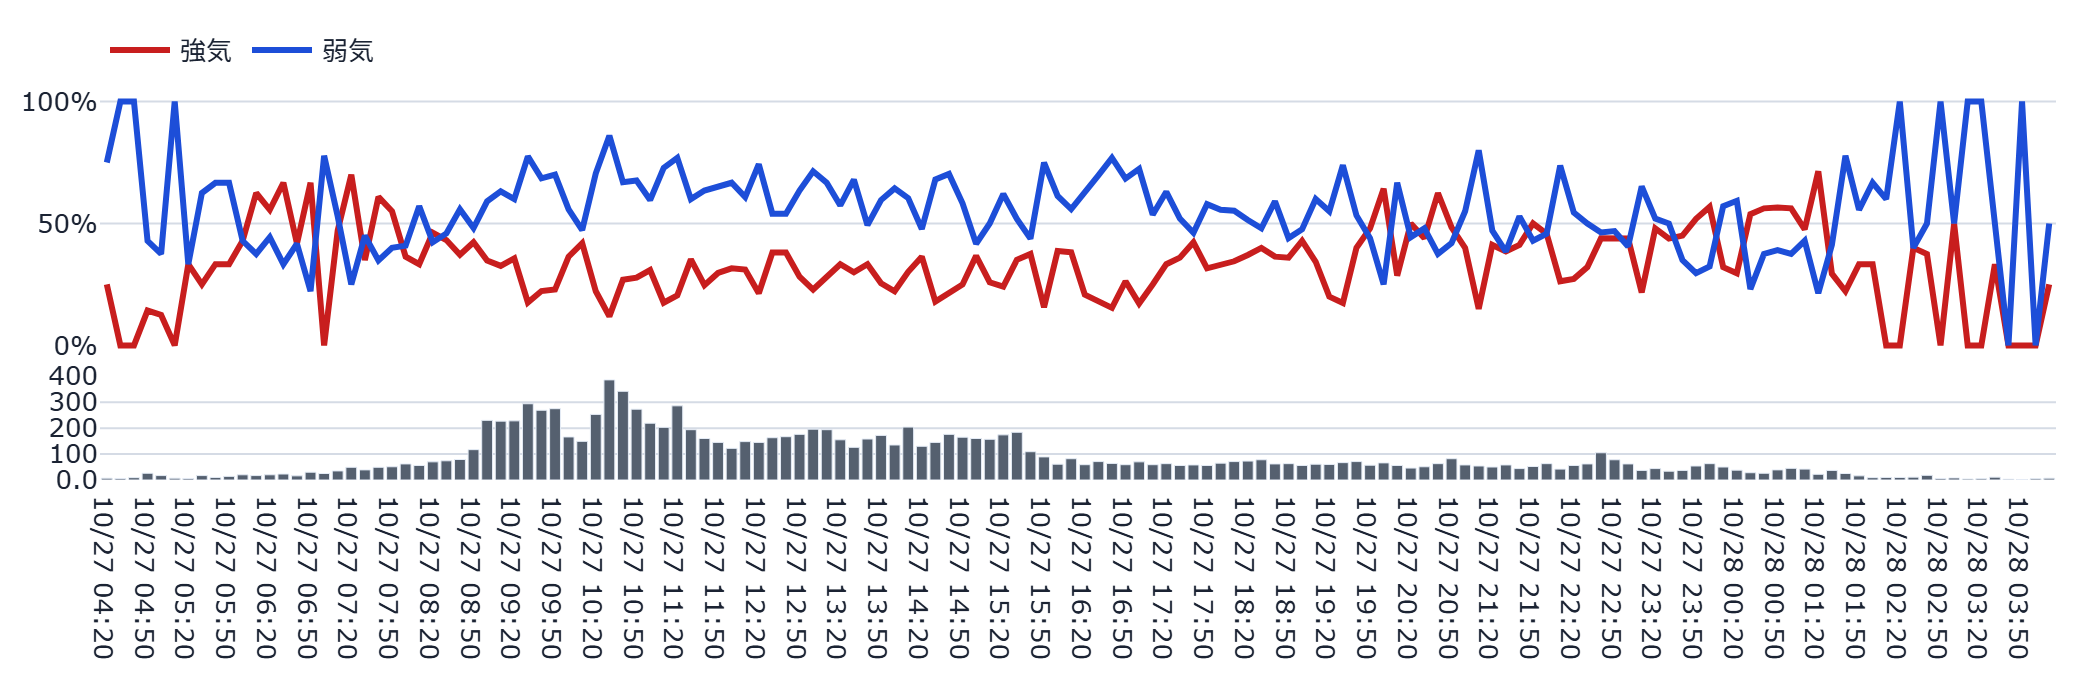
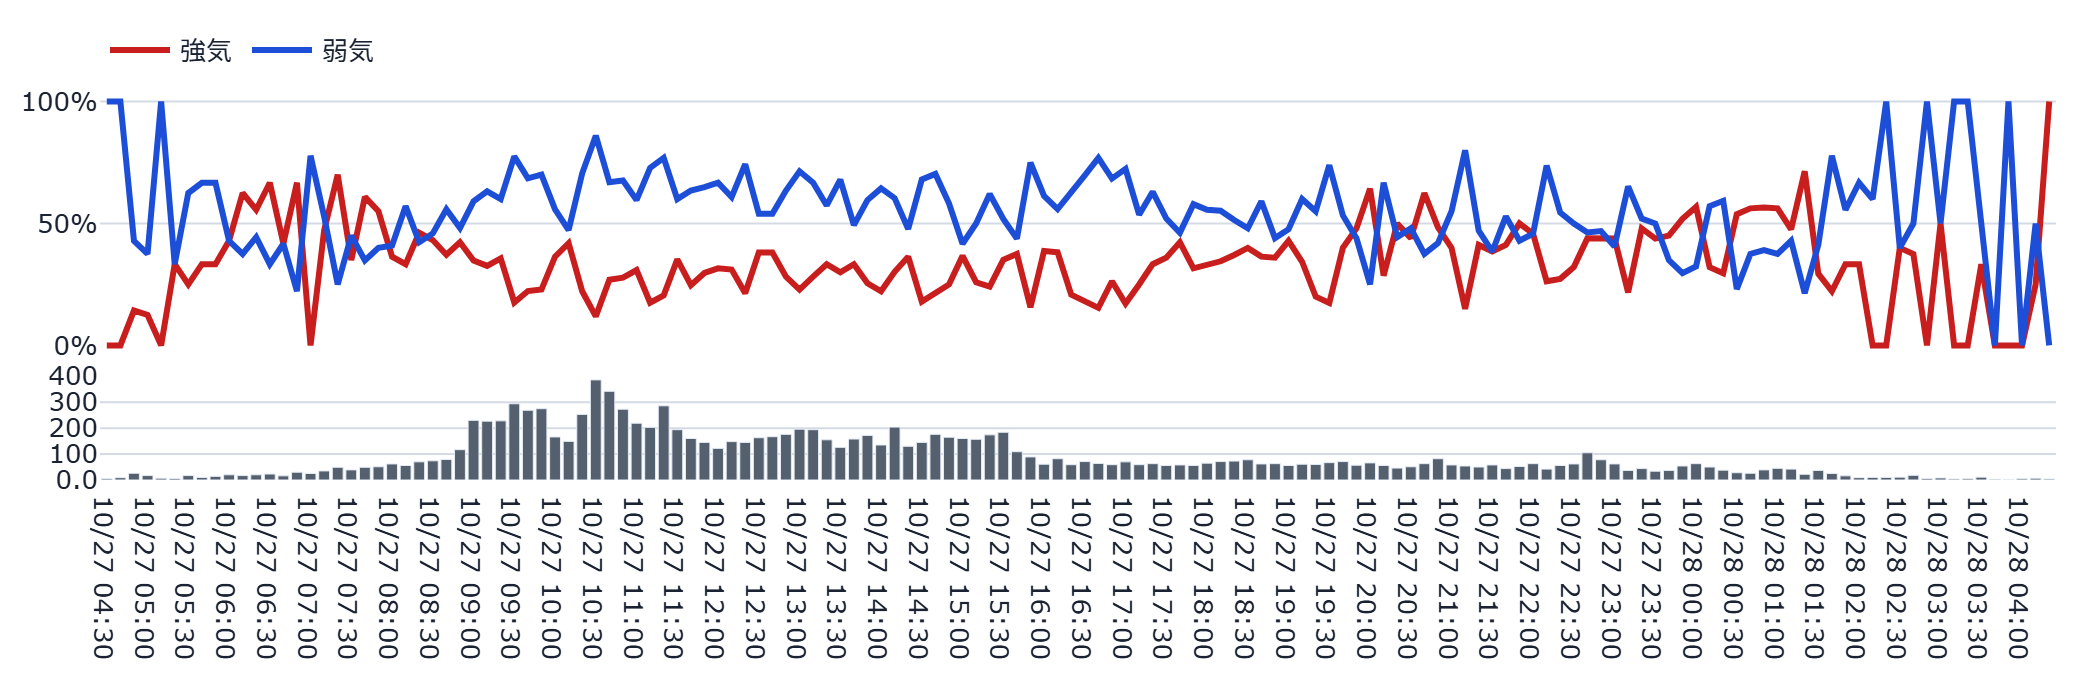
auto: refresh static dashboard (2026-10-28 04:34:55 JST)

diff --git a/docs/index.html b/docs/index.html
@@ -144,10 +144,10 @@
         <span class="price">12,605円</span>
         <span class="chg" style="color:#8B94A3">—</span>
       </div>
-      <p class="caption">更新時刻: 2026-10-28T04:21:01（データは1分間隔で自動生成され、このページも
+      <p class="caption">更新時刻: 2026-10-28T04:31:03（データは1分間隔で自動生成され、このページも
       60秒毎に自動再読み込みされます）</p>
       
-      <p id='visit-count-badge' class='caption'>👀 累計閲覧数: 11,232</p>
+      <p id='visit-count-badge' class='caption'>👀 累計閲覧数: 11,234</p>
       <p id='like-button-wrap' class='caption'><button id='like-button' type='button' style='cursor:pointer;border:1px solid var(--border);border-radius:6px;padding:1px 10px;margin-right:6px;background:var(--panel);color:var(--text);font-size:1em;vertical-align:middle'>👍</button><span id='like-count-label'>このダッシュボードが役に立ったら押してください（累計 4 いいね）</span></p>
 
       <!-- ★2026-09-08追加(ユーザー指示「AI考察はトップに移動」): モニタ
@@ -155,9 +155,9 @@
            常時最上部に表示する。 -->
       <h2>🤖 AI考察</h2>
       <div class='panel' id='ai-schedule'><h3>🗓 AI考察の予定</h3><ul><li>平日の立会日に、寄り前 08:50／寄り直後 09:10／前場引け前 11:30／大引け後 15:45 の4時点で考察を更新します（考察はClaude(AI)が書きます）。</li><li>土日祝などの休場日は考察を書きません。</li><li>時点の間は、数値のみを約10分ごとに更新します（文章は次の時点まで更新されません）。</li><li>次の予定: 10-28 08:50（寄り前）／直近の更新: 10-20 15:33（自動生成）</li></ul></div>
-      <div class='panel' id='numeric-summary'><h3>📊 数値要約｜04:21 更新</h3><ul><li>株価: 12,605円</li><li>掲示板: 強気 43.6%／弱気 44.7%／中立 11.7%・投稿 540件（約108件/時）</li><li>シグナル: 発火＝ネームド集中(0.16)・話題枯れ(-1.6)／警戒＝灼熱メーター(過熱)(30.3)・イナゴ語彙(euphoria)(4.8)／平常＝そう思う大量票(20)・他銘柄混入率(0.07)・暴落煽り語彙(2.2)・阿鼻叫喚(セリクラ)(0)ほか</li><li>変化点: 前回の数値要約から大きな変化なし</li></ul><p class='caption'>強気・弱気は機械判定（辞書＋軽量モデル）の値です。日単位の向きはLM判定と近く（相関0.8台）、時間単位は粗い点に注意してください。</p></div>
+      <div class='panel' id='numeric-summary'><h3>📊 数値要約｜04:31 更新</h3><ul><li>株価: 12,605円</li><li>掲示板: 強気 44.0%／弱気 44.4%／中立 11.6%・投稿 544件（約109件/時）</li><li>シグナル: 発火＝ネームド集中(0.16)・話題枯れ(-1.6)／警戒＝灼熱メーター(過熱)(30.3)・イナゴ語彙(euphoria)(4.8)／平常＝そう思う大量票(20)・他銘柄混入率(0.07)・暴落煽り語彙(2.2)・阿鼻叫喚(セリクラ)(0)ほか</li><li>変化点: 前回の数値要約から大きな変化なし</li></ul><p class='caption'>強気・弱気は機械判定（辞書＋軽量モデル）の値です。日単位の向きはLM判定と近く（相関0.8台）、時間単位は粗い点に注意してください。</p></div>
       
-      <div class='metric-row'><div class='metric-card'><div class='metric-label'>株価</div><div class='metric-value'>12,605円</div><div class='metric-delta'>+0円</div></div><div class='metric-card'><div class='metric-label'>強気比率</div><div class='metric-value'>43.6%</div><div class='metric-delta'>-0.3pt</div></div><div class='metric-card'><div class='metric-label'>弱気比率</div><div class='metric-value'>44.7%</div><div class='metric-delta'>+0.1pt</div></div></div><p class='caption'>前回集計(2026-10-28T04:10:59)との比較</p>
+      <div class='metric-row'><div class='metric-card'><div class='metric-label'>株価</div><div class='metric-value'>12,605円</div><div class='metric-delta'>+0円</div></div><div class='metric-card'><div class='metric-label'>強気比率</div><div class='metric-value'>44.0%</div><div class='metric-delta'>+0.4pt</div></div><div class='metric-card'><div class='metric-label'>弱気比率</div><div class='metric-value'>44.4%</div><div class='metric-delta'>-0.3pt</div></div></div><p class='caption'>前回集計(2026-10-28T04:21:01)との比較</p>
       <div class='ai-box'>※無料公開データを機械的に集計した観測情報であり、投資助言・売買推奨ではありません。（10-20 大引け後・本日の取引終了後の整理です）<br>
 <br>
 ■ 本日の終値：15:30の板寄せで13,140円、前営業日終値比で約-3.4%<br>
@@ -205,7 +205,7 @@
             <h3>ボラ・レジーム帯</h3>
             <figure><img src='images/regime_band.png' alt='ボラ・レジーム帯' loading='lazy'></figure>
             <p class='caption'>現在レジーム: 較正中　(BVP=0.38)</p>
-            <div class='metric-row'><div class='metric-card'><div class='metric-label'>PTS（10/28 00:55）</div><div class='metric-value'>13,140円</div><div class='metric-delta' style='color:#C81E1E'>+4.24%</div></div><div class='metric-card'><div class='metric-label'>米国ADR（10/28 04:24）</div><div class='metric-value'>13,105円</div><div class='metric-delta' style='color:#C81E1E'>+3.97%</div></div><div class='metric-card'><div class='metric-label'>DEX（10/28 04:20）</div><div class='metric-value'>13,240円</div><div class='metric-delta' style='color:#C81E1E'>+5.04%</div></div></div><p class='caption'>PTS=東証取引時間外の私設取引システム／ADR=米国預託証券／DEX=分散型取引所(Hyperliquid)の24時間取引・円換算(東証終値比)。翌営業日の値動きの参考情報です(それ自体が売買シグナルではありません)。</p>
+            <div class='metric-row'><div class='metric-card'><div class='metric-label'>PTS（10/28 00:55）</div><div class='metric-value'>13,140円</div><div class='metric-delta' style='color:#C81E1E'>+4.24%</div></div><div class='metric-card'><div class='metric-label'>米国ADR（10/28 04:34）</div><div class='metric-value'>13,106円</div><div class='metric-delta' style='color:#C81E1E'>+3.97%</div></div><div class='metric-card'><div class='metric-label'>DEX（10/28 04:30）</div><div class='metric-value'>13,230円</div><div class='metric-delta' style='color:#C81E1E'>+4.96%</div></div></div><p class='caption'>PTS=東証取引時間外の私設取引システム／ADR=米国預託証券／DEX=分散型取引所(Hyperliquid)の24時間取引・円換算(東証終値比)。翌営業日の値動きの参考情報です(それ自体が売買シグナルではありません)。</p>
           </div>
         </div>
 
@@ -230,7 +230,7 @@
 <div class='signal-row'><div class='signal-name'>そう思う大量票<div class='signal-desc'>Yahoo!掲示板の「そう思う」共感ボタンが1投稿に集中して大量に押されているか。</div></div><div class='signal-meta'><div class='signal-note'>そう思う最大20票 (95超=過熱)</div><div><span style='display:inline-block;border-radius:999px;padding:2px 10px;font-size:.82em;font-weight:600;color:#fff;background:#15803D;white-space:nowrap'>OK (現在値20 / 閾値&gt;=95)</span></div><div class='signal-spark'><figure><img src='images/spark_signal_1.png' alt='そう思う大量票の推移' loading='lazy'></figure></div></div></div>
 <div class='signal-row'><div class='signal-name'>イナゴ語彙(euphoria)<div class='signal-desc'>「爆上げ」「握力」等、熱狂・便乗を示す語彙が投稿にどれだけ含まれるか。</div></div><div class='signal-meta'><div class='signal-note'>euphoria指数4.8/100投稿</div><div><span style='display:inline-block;border-radius:999px;padding:2px 10px;font-size:.82em;font-weight:600;color:#fff;background:#C2570B;white-space:nowrap'>警戒 (現在値4.80 / 閾値&gt;=5.5(発火)/&gt;=4.0(警戒)/100投稿)</span></div><div class='signal-spark'><figure><img src='images/spark_signal_2.png' alt='イナゴ語彙(euphoria)の推移' loading='lazy'></figure></div></div></div>
 <div class='signal-row'><div class='signal-name'>ネームド集中<div class='signal-desc'>特定の常連投稿者(ハッシュ化ID)に投稿が偏っていないか(少数の声が目立ちすぎていないか)。</div></div><div class='signal-meta'><div class='signal-note'>上位5人シェア16%</div><div><span style='display:inline-block;border-radius:999px;padding:2px 10px;font-size:.82em;font-weight:600;color:#fff;background:#C81E1E;white-space:nowrap'>発火 (現在値0.16 / 閾値&gt;=0.1)</span></div><div class='signal-spark'><figure><img src='images/spark_signal_3.png' alt='ネームド集中の推移' loading='lazy'></figure></div></div></div>
-<div class='signal-row'><div class='signal-name'>他銘柄混入率<div class='signal-desc'>本銘柄の掲示板で他の銘柄コードへの言及がどれだけ多いか(関心が他へ移りつつあるサイン)。</div></div><div class='signal-meta'><div class='signal-note'>他銘柄言及7% (関心離散のサイン)</div><div><span style='display:inline-block;border-radius:999px;padding:2px 10px;font-size:.82em;font-weight:600;color:#fff;background:#15803D;white-space:nowrap'>OK (現在値0.07 / 閾値&gt;=0.11)</span></div><div class='signal-spark'><figure><img src='images/spark_signal_4.png' alt='他銘柄混入率の推移' loading='lazy'></figure></div></div></div>
+<div class='signal-row'><div class='signal-name'>他銘柄混入率<div class='signal-desc'>本銘柄の掲示板で他の銘柄コードへの言及がどれだけ多いか(関心が他へ移りつつあるサイン)。</div></div><div class='signal-meta'><div class='signal-note'>他銘柄言及8% (関心離散のサイン)</div><div><span style='display:inline-block;border-radius:999px;padding:2px 10px;font-size:.82em;font-weight:600;color:#fff;background:#15803D;white-space:nowrap'>OK (現在値0.07 / 閾値&gt;=0.11)</span></div><div class='signal-spark'><figure><img src='images/spark_signal_4.png' alt='他銘柄混入率の推移' loading='lazy'></figure></div></div></div>
 <div class='signal-row'><div class='signal-name'>暴落煽り語彙<div class='signal-desc'>「暴落」「終わった」等、悲観・煽りを示す語彙が投稿にどれだけ含まれるか。</div></div><div class='signal-meta'><div class='signal-note'>煽り指数2.2/100投稿</div><div><span style='display:inline-block;border-radius:999px;padding:2px 10px;font-size:.82em;font-weight:600;color:#fff;background:#15803D;white-space:nowrap'>OK (現在値2.20 / 閾値&gt;=5.0/100投稿)</span></div><div class='signal-spark'><figure><img src='images/spark_signal_5.png' alt='暴落煽り語彙の推移' loading='lazy'></figure></div></div></div>
 <div class='signal-row'><div class='signal-name'>阿鼻叫喚(セリクラ)<div class='signal-desc'>株価が安値圏にある中で悲観語彙が急増しているか(セリングクライマックスの兆候)。</div></div><div class='signal-meta'><div class='signal-note'>阿鼻叫喚スコア0.0 安値圏外</div><div><span style='display:inline-block;border-radius:999px;padding:2px 10px;font-size:.82em;font-weight:600;color:#fff;background:#15803D;white-space:nowrap'>OK (現在値0.00 / 閾値&gt;30)</span></div><div class='signal-spark'><figure><img src='images/spark_signal_6.png' alt='阿鼻叫喚(セリクラ)の推移' loading='lazy'></figure></div></div></div>
 <div class='signal-row'><div class='signal-name'>話題枯れ<div class='signal-desc'>過去の平均と比べて本日の投稿数が著しく少ないか(閑散・関心低下のサイン)。</div></div><div class='signal-meta'><div class='signal-note'>投稿数z=-1.6 (負=閑散)</div><div><span style='display:inline-block;border-radius:999px;padding:2px 10px;font-size:.82em;font-weight:600;color:#fff;background:#C81E1E;white-space:nowrap'>発火 (現在値-1.60 / 閾値z&lt;-1.0)</span></div><div class='signal-spark'><figure><img src='images/spark_signal_7.png' alt='話題枯れの推移' loading='lazy'></figure></div></div></div>
@@ -289,7 +289,7 @@
 
       <hr style="border:none;border-top:1px solid var(--border);margin:2rem 0 1rem">
       <p class="caption">⚠ 本情報は掲示板投稿を統計的に集計したものであり、投資助言ではありません。個別の投稿内容は含まれていません。研究・エンタメ用途です。</p>
-      <footer>生成: generate_static_dashboard.py（2026-10-28T04:24:50） /
+      <footer>生成: generate_static_dashboard.py（2026-10-28T04:34:50） /
       画像バックエンド: plotly+kaleido</footer>
     </div>
     <script>(function(){var url="https://script.google.com/macros/s/AKfycbwgSSGQ2n56ohmIYKlNDA1Xe3D8hd3GJbD0U90L4DGtXdb8pqrPokNMHJWjvN1__7bE/exec";var KEY='bbs_visit_counted';var already=sessionStorage.getItem(KEY);var action=already?'read':'hit';var ctrl=(typeof AbortController!=='undefined')?new AbortController():null;var timer=ctrl?setTimeout(function(){ctrl.abort();},5000):null;fetch(url+'?action='+action,{signal:ctrl?ctrl.signal:undefined}).then(function(r){if(timer)clearTimeout(timer);return r.json();}).then(function(data){if(!already)sessionStorage.setItem(KEY,'1');if(data&&typeof data.count==='number'){var el=document.getElementById('visit-count-badge');if(el){el.textContent='\u{1F440} \u7d2f\u8a08\u95b2\u89a7\u6570: '+data.count.toLocaleString();el.style.display='';}}}).catch(function(e){if(timer)clearTimeout(timer);console.warn('visit counter fetch failed (fail-soft):',e);});})();</script><script>(function(){var url="https://script.google.com/macros/s/AKfycbwgSSGQ2n56ohmIYKlNDA1Xe3D8hd3GJbD0U90L4DGtXdb8pqrPokNMHJWjvN1__7bE/exec";var KEY='bbs_liked';var btn=document.getElementById('like-button');var label=document.getElementById('like-count-label');if(!btn||!label)return;function renderLiked(count){btn.disabled=true;btn.style.cursor='default';btn.style.opacity='0.6';btn.textContent='\u2705';label.textContent="\u3044\u3044\u306d\u3057\u307e\u3057\u305f\uff01"+(typeof count==='number'?"\uff08\u7d2f\u8a08 "+count.toLocaleString()+" \u3044\u3044\u306d\uff09":'');}if(localStorage.getItem(KEY)){renderLiked(null);}btn.addEventListener('click',function(){if(localStorage.getItem(KEY))return;btn.disabled=true;var ctrl=(typeof AbortController!=='undefined')?new AbortController():null;var timer=ctrl?setTimeout(function(){ctrl.abort();},5000):null;fetch(url+'?action=like_hit',{signal:ctrl?ctrl.signal:undefined}).then(function(r){if(timer)clearTimeout(timer);return r.json();}).then(function(data){localStorage.setItem(KEY,'1');renderLiked(data&&typeof data.count==='number'?data.count:null);}).catch(function(e){if(timer)clearTimeout(timer);btn.disabled=false;console.warn('like button fetch failed (fail-soft):',e);});});})();</script><script>(function(){var DEFAULT_TAB='overview';function activate(tabName){var buttons=document.querySelectorAll('.tab-bar .tab-btn');var panels=document.querySelectorAll('[data-tab-panel]');if(!buttons.length||!panels.length)return;var matched=false;panels.forEach(function(p){var on=p.getAttribute('data-tab-panel')===tabName;if(on)matched=true;p.classList.toggle('tab-hidden',!on);});if(!matched){panels.forEach(function(p){p.classList.toggle('tab-hidden',p.getAttribute('data-tab-panel')!==DEFAULT_TAB);});tabName=DEFAULT_TAB;}buttons.forEach(function(b){var on=b.getAttribute('data-tab')===tabName;b.classList.toggle('active',on);b.setAttribute('aria-selected',on?'true':'false');});}document.addEventListener('DOMContentLoaded',function(){var bar=document.getElementById('tabBar');if(!bar)return;bar.addEventListener('click',function(e){var btn=e.target.closest('.tab-btn');if(!btn)return;activate(btn.getAttribute('data-tab'));});activate(DEFAULT_TAB);});})();</script></body></html>
